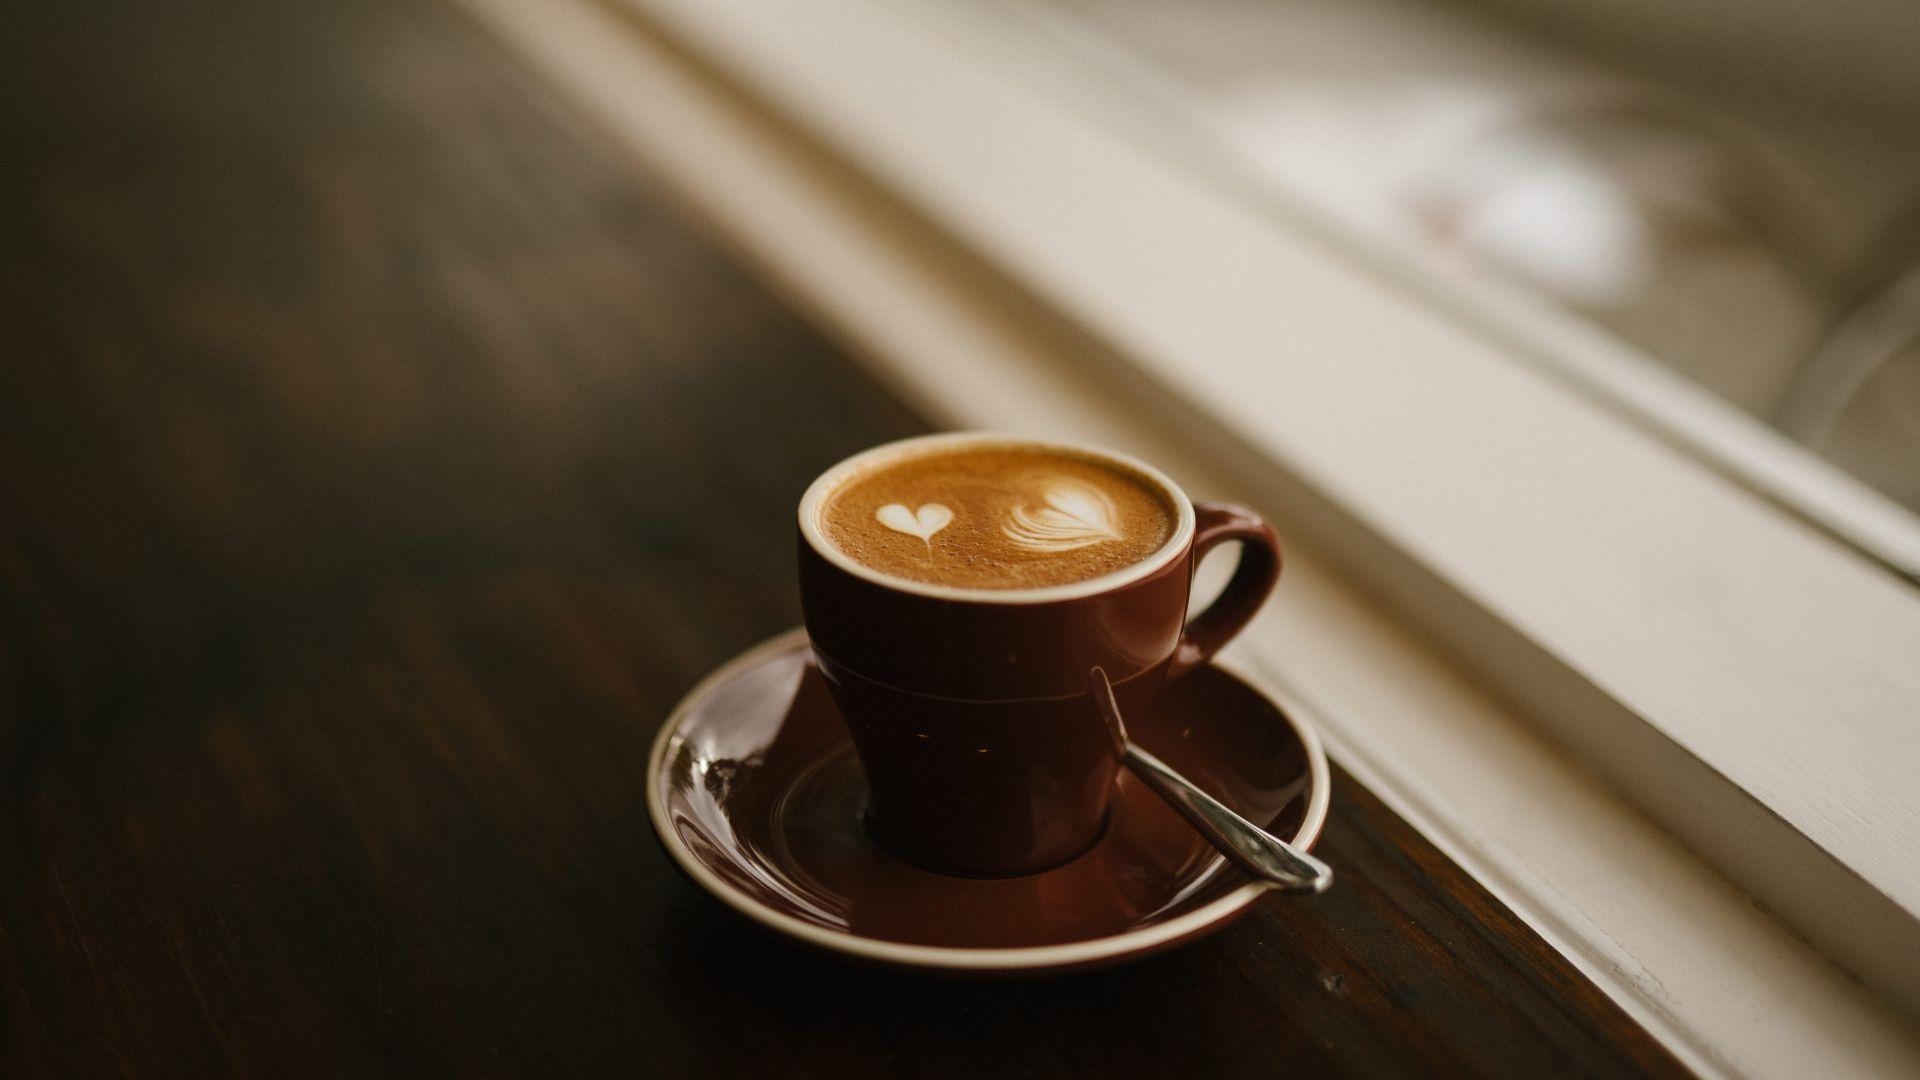
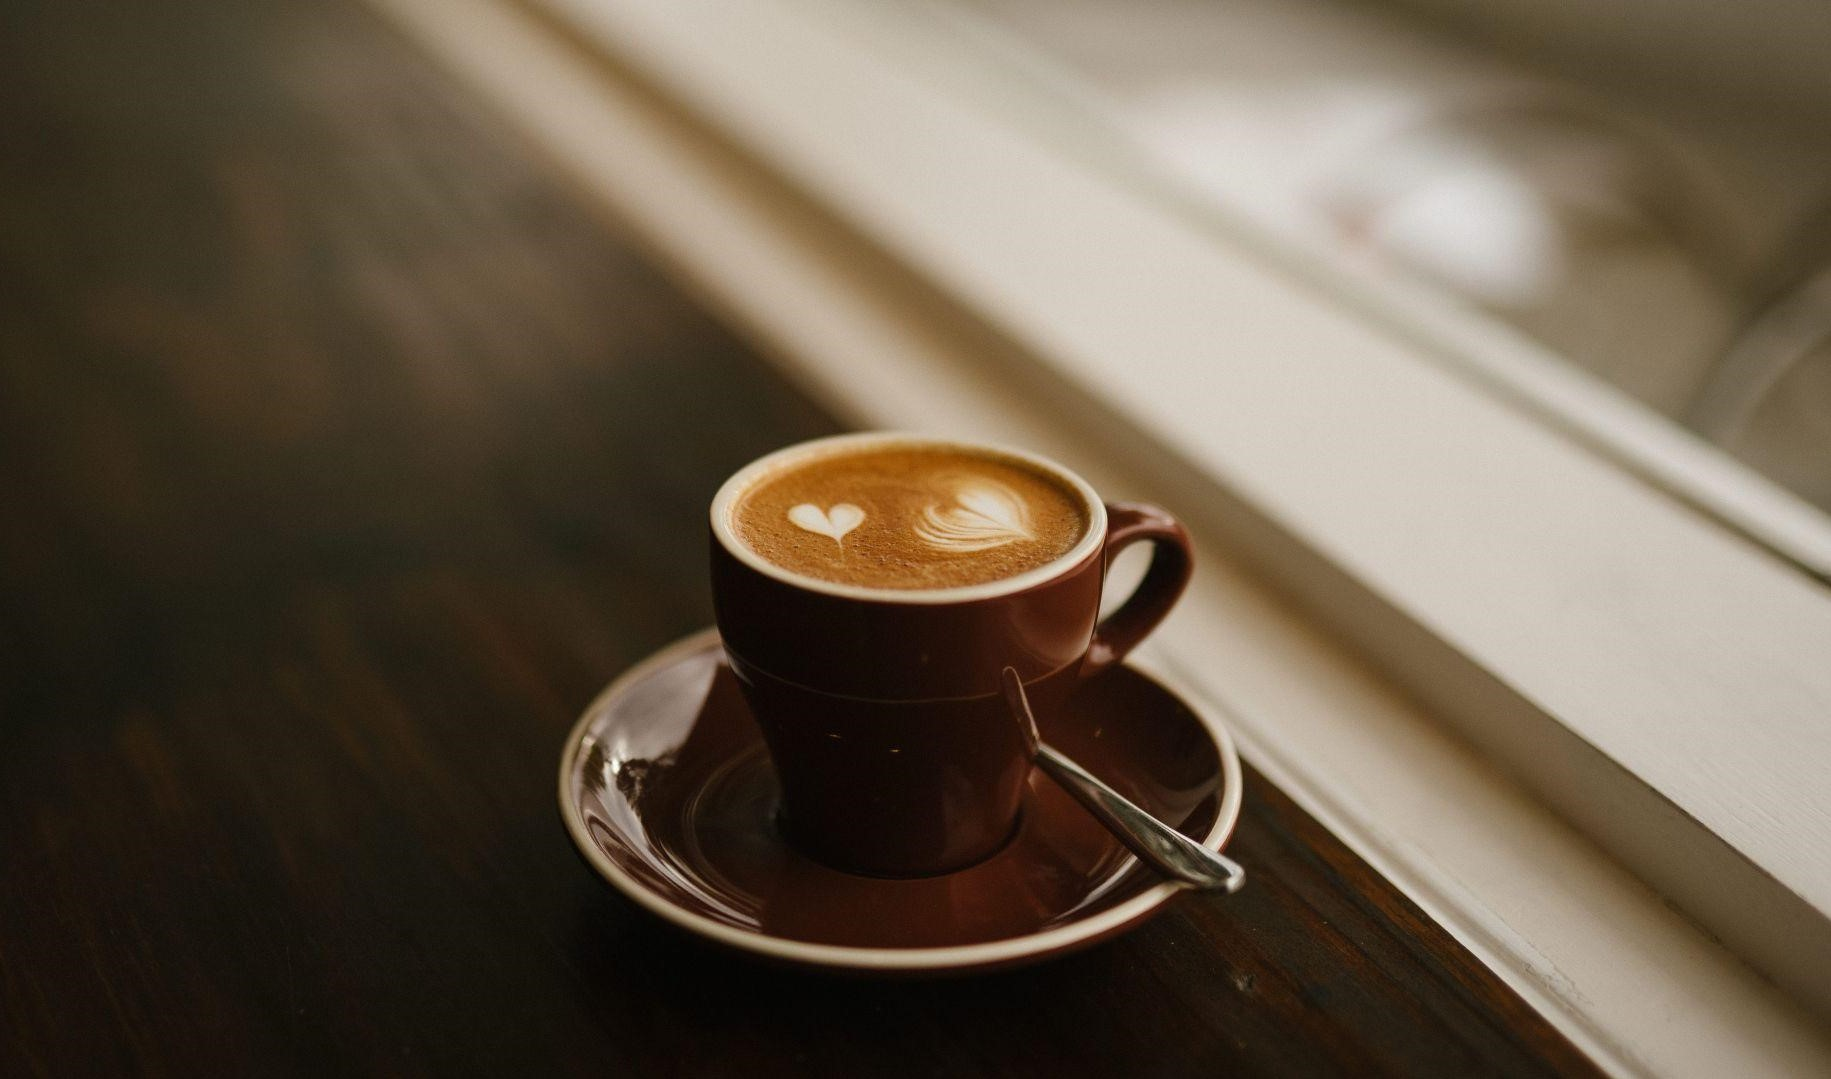
fixed arrows and background image

diff --git a/index.html b/index.html
@@ -86,21 +86,21 @@
       <div id="carouselExampleIndicators" class="carousel slide" data-ride="carousel">
         <div class="carousel-inner">
           <div class="carousel-item active container-fluid">
-            <img class="item1-img item" src="img/coconut-coffee.jpg" alt="">
+            <img class="item item1-img item" src="img/coconut-coffee.jpg" alt="">
             <div class="item-text">
               <h3>Coconut Coffee</h3>
               <p>Lorem ipsum dolor sit amet, consectetur adipiscing elit, sed do eiusmod tempor incididunt ut labore et dolore magna aliqua.</p>
             </div>
           </div>
           <div class="carousel-item container-fluid">
-            <img class="item2-img item" src="img/capp.jpg" alt="">
+            <img class="item item2-img item" src="img/capp.jpg" alt="">
             <div class="item-text">
               <h3>Cappuccino</h3>
               <p>Lorem ipsum dolor sit amet, consectetur adipiscing elit, sed do eiusmod tempor incididunt ut labore et dolore magna aliqua.</p>
             </div>
           </div>
           <div class="carousel-item container-fluid">
-            <img class="item3-img item" src="img/summer-rolls.jpg" alt="">
+            <img class="item item3-img" src="img/summer-rolls.jpg" alt="">
             <div class="item-text">
               <h3>Summer Rolls</h3>
               <p>Lorem ipsum dolor sit amet, consectetur adipiscing elit, sed do eiusmod tempor incididunt ut labore et dolore magna aliqua.</p>

diff --git a/css/styles.css b/css/styles.css
@@ -3,21 +3,28 @@ body{
   text-align: center;
 }
 
+h1{
+  font-weight: lighter;
+  font-size: 6rem;
+  color: black;
+}
+
 h2{
   font-weight: lighter;
 }
 
 /* HOME */
 #home{
-  background: url("../img/home-wallpaper.jpg");
+  background-size: 2000px 900px;
+  background-image: url("../img/home-wallpaper.jpg");
   background-repeat: no-repeat;
   background-attachment: fixed;
-  background-position: 56% center;
+  background-position:  center top;
   padding: 3% 3%;
 }
 
 .home-title{
-  padding: 10% 15% 20%;
+  padding: 4% 15% 20%;
 }
 
 /* Navigation Bar */
@@ -33,7 +40,7 @@ h2{
 /* STORY */
 #story {
   background-color: #442727;
-  color: white;
+  color: #8f8f8f;;
   padding: 7% 15%;
 }
 
@@ -58,15 +65,16 @@ h2{
 /* BEST SELLERS */
 #best-seller {
   background-color: #d2c6b2;
-  padding: 7% 20% 3%;
+  padding: 7% 10% 3%;
 }
 
 .container-fluid {
-  padding: 5% 15%;
+  padding: 5% 20%;
 }
 
 .item-text {
   padding-top: 10%;
+  text-align: left;
 }
 
 .item {
@@ -74,6 +82,20 @@ h2{
   width: 250px;
   border-radius: 100%;
   margin: 20px;
+}
+
+/* if mobile device */
+@media (max-width: 850px) {
+
+  .item {
+    display: block;
+    text-align: center;
+  }
+
+  .item-text {
+    text-align: center;
+  }
+
 }
 
 .item1-img{
